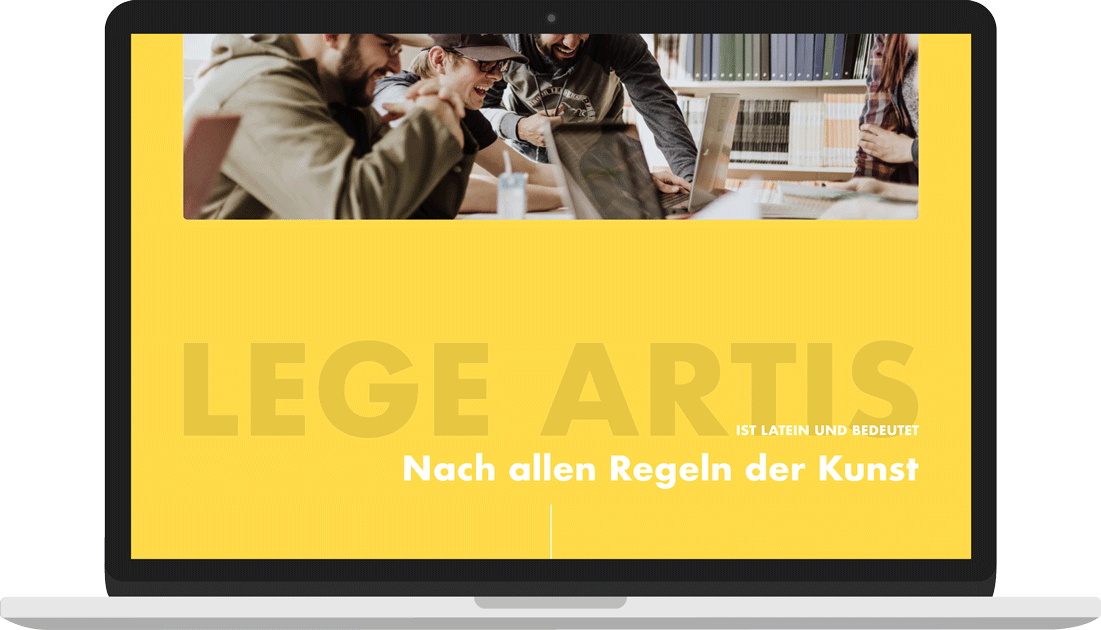
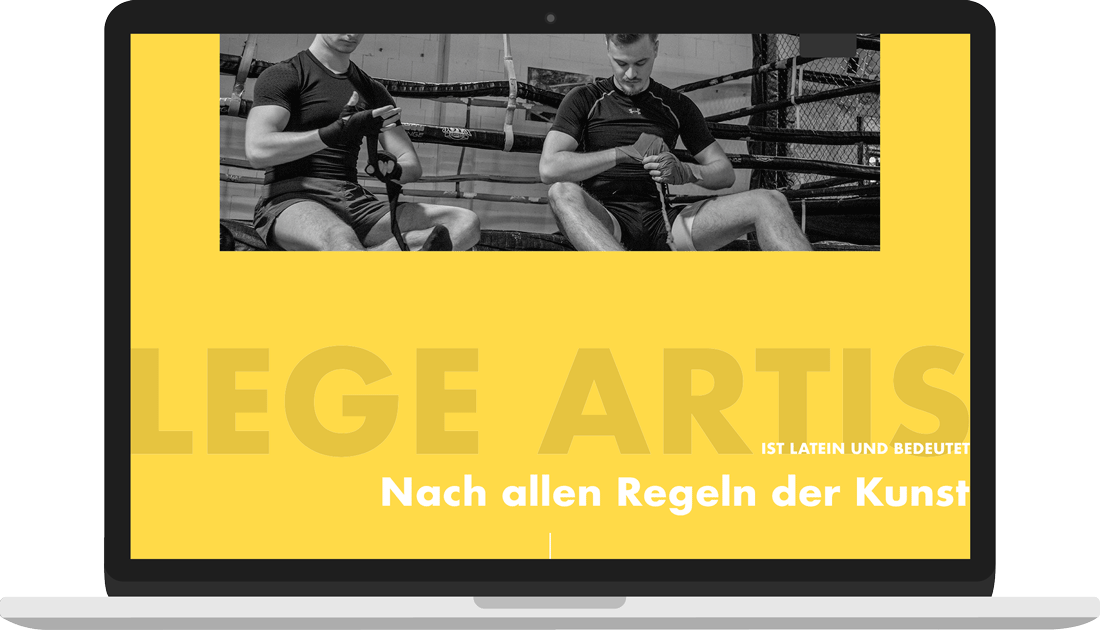
deleted marius sideHustles

Changed region(s): [[0.1545, 0.0302, 0.8345, 0.4222], [0.0927, 0.5429, 0.8964, 0.8143], [0.5255, 0.6032, 0.5564, 0.6333]]

diff --git a/pages/wir.html b/pages/wir.html
@@ -127,16 +127,6 @@
               alt=""
               class="sideHustleImage"
             />
-            <img
-              src="../assets/wir/sideHustle/m2.jpg"
-              alt=""
-              class="sideHustleImage"
-            />
-            <img
-              src="../assets/wir/sideHustle/4.jpg"
-              alt=""
-              class="sideHustleImage"
-            />
             <video
               muted
               autoplay
@@ -145,20 +135,15 @@
               alt=""
               class="sideHustleImage"
             ></video>
+            <img
+              src="../assets/wir/sideHustle/4.jpg"
+              alt=""
+              class="sideHustleImage"
+            />
           </div>
           <div class="colContainer">
             <img
               src="../assets/wir/sideHustle/2.jpg"
-              alt=""
-              class="sideHustleImage"
-            />
-            <img
-              src="../assets/wir/sideHustle/m1.jpg"
-              alt=""
-              class="sideHustleImage"
-            />
-            <img
-              src="../assets/wir/sideHustle/5.jpg"
               alt=""
               class="sideHustleImage"
             />
@@ -170,6 +155,11 @@
               alt=""
               class="sideHustleImage"
             ></video>
+            <img
+              src="../assets/wir/sideHustle/5.jpg"
+              alt=""
+              class="sideHustleImage"
+            />
           </div>
           <div class="colContainer">
             <img
@@ -177,17 +167,6 @@
               alt=""
               class="sideHustleImage"
             />
-            <img
-              src="../assets/wir/sideHustle/m3.jpg"
-              alt=""
-              class="sideHustleImage"
-            />
-            <img
-              src="../assets/wir/sideHustle/6.jpg"
-              alt=""
-              class="sideHustleImage"
-            />
-
             <video
               muted
               autoplay
@@ -196,6 +175,11 @@
               alt=""
               class="sideHustleImage"
             ></video>
+            <img
+              src="../assets/wir/sideHustle/6.jpg"
+              alt=""
+              class="sideHustleImage"
+            />
           </div>
         </div>
       </section>

diff --git a/index.html b/index.html
@@ -142,10 +142,12 @@
             <img src="./assets/Legarti-Webcontent-04-Landingpage.png" alt="" />
             <div class="cinematicStoryDisplayWrapper">
               <video muted autoplay loop>
-                <source src="./assets/Legarti-Webcontent-04-Landingpage.mp4"
-                type="video/mp4" />
+                <source
+                  src="./assets/Legarti-Webcontent-04-Landingpage.mp4"
+                  type="video/mp4"
+                />
               </video>
-              <img src="./assets/instagram-maske.png" alt="">
+              <img src="./assets/instagram-maske.png" alt="" />
             </div>
           </div>
         </div>
